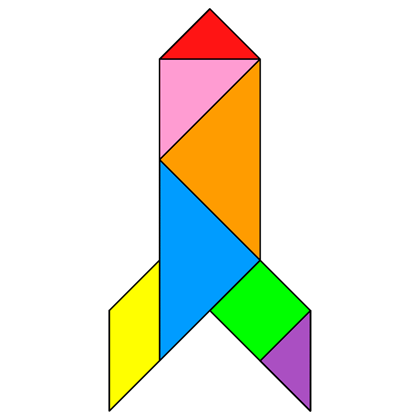
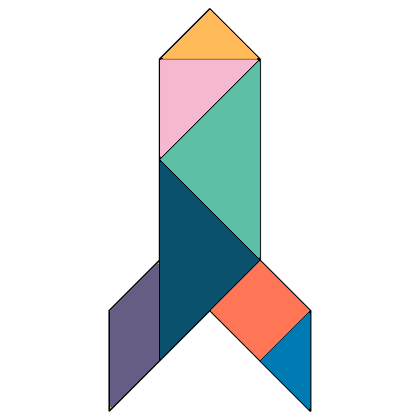
2

Changed region(s): [[0.2476, 0.031, 0.7429, 0.9905]]

diff --git a/src/components/Estudiante.js b/src/components/Estudiante.js
@@ -1,8 +1,12 @@
-import React, { useEffect } from 'react';
+import React, { useEffect , useState } from 'react';
 import Draggable from 'react-draggable';
+import { ListGroup, ListGroupItem } from 'reactstrap';
+import choeteImage from '../img/choete.png';
+import { Button, Modal } from 'react-bootstrap';
 import './Estudiante.css';
 
 const Estudiante = () => {
+  const [showModal, setShowModal] = useState(false);
   useEffect(() => {
     const blocks = document.querySelectorAll('.block');
     let angle = 90;
@@ -38,7 +42,54 @@ const Estudiante = () => {
   return (
     <div className="container">
       <div className="title-container">
+      <div id="lista" style={{ position: 'fixed', bottom: '10px', right: '10px' }}>
+        <ListGroup style={{ maxWidth: '200px' }}>
+          <ListGroupItem>
+            <h6 className="list-group-item-heading">Pasos</h6>
+          </ListGroupItem>
+          <ListGroupItem>
+            <p className="list-group-item-text">Paso 1:</p>
+          </ListGroupItem>
+          <ListGroupItem>
+            <p className="list-group-item-text">Paso 2:</p>
+          </ListGroupItem>
+          <ListGroupItem>
+            <p className="list-group-item-text">Paso 3:</p>
+          </ListGroupItem>
+          <ListGroupItem>
+            <p className="list-group-item-text">Paso 4:</p>
+          </ListGroupItem>
+          <ListGroupItem>
+            <p className="list-group-item-text">Paso 5:</p>
+          </ListGroupItem>
+          <ListGroupItem>
+            <p className="list-group-item-text">Paso 6:</p>
+          </ListGroupItem>
+          <ListGroupItem>
+            <p className="list-group-item-text">Paso 7:</p>
+          </ListGroupItem>
+        </ListGroup>
+      </div>
         <h1>Estudiante</h1>
+      </div>
+      <div id="modal">
+        <Button onClick={() => setShowModal(true)} id="btnModal" variant="light">Terminar</Button>
+        <Modal show={showModal} onHide={() => setShowModal(false)}>
+          <Modal.Header closeButton>
+            <Modal.Title>Mandar Figura</Modal.Title>
+          </Modal.Header>
+          <Modal.Body>
+            <p1>¿La figura que creaste es igual a la figura de referencia?</p1>
+          </Modal.Body>
+          <Modal.Footer>
+            <Button variant="secondary" onClick={() => setShowModal(false)}>Cancelar</Button>
+            <Button variant="primary">No</Button>
+            <Button variant="primary">Si</Button>
+          </Modal.Footer>
+        </Modal>
+      </div>
+      <div id="lvl1">
+        <img src={choeteImage} alt="imagen choete" />
       </div>
       <div>
         <div id="blockTray">
@@ -69,12 +120,12 @@ const Estudiante = () => {
           </Draggable>
           <Draggable>
             <svg id="triangle5" className="block">
-              <rect x="98" y="0" width="149" height="75" fill="green" transform="skewX(-45)" />
+              <rect x="98" y="0" width="149" height="75" fill="#665c84" transform="skewX(-45)" />
             </svg>
           </Draggable>
           <Draggable>
             <svg id="square1" className="block" width="146" height="146">
-              <polygon points="73,0 146,73 73,146 0,73" style={{ fill: 'red' }} />
+              <polygon points="73,0 146,73 73,146 0,73" style={{ fill: '#ff7657' }} />
             </svg>
           </Draggable>
         </div>

diff --git a/src/components/Profesor.js b/src/components/Profesor.js
@@ -1,8 +1,11 @@
-import React, { useEffect } from 'react';
+import React, { useEffect, useState } from 'react';
 import Draggable from 'react-draggable';
+import { Button, Modal } from 'react-bootstrap';
 import './Profesor.css';
 
+
 const Profesor = () => {
+  const [showModal, setShowModal] = useState(false);
   useEffect(() => {
     const blocks = document.querySelectorAll('.block');
     let angle = 90;
@@ -39,6 +42,21 @@ const Profesor = () => {
     <div className="containerP">
       <div className="title-containerP">
         <h1>Profesor</h1>
+        <div id="modal">
+        <Button onClick={() => setShowModal(true)} id="btnModal" variant="light">Terminar</Button>
+        <Modal show={showModal} onHide={() => setShowModal(false)}>
+          <Modal.Header closeButton>
+            <Modal.Title>Terminar Figura</Modal.Title>
+          </Modal.Header>
+          <Modal.Body>
+            <p1>Se enviara esta figura a la vista del estudiante</p1>
+          </Modal.Body>
+          <Modal.Footer>
+            <Button variant="secondary" onClick={() => setShowModal(false)}>Cancelar</Button>
+            <Button variant="primary">Confirmar</Button>
+          </Modal.Footer>
+        </Modal>
+      </div>
       </div>
       <div>
         <div id="blockTrayP">
@@ -69,12 +87,12 @@ const Profesor = () => {
           </Draggable>
           <Draggable>
             <svg id="triangle5P" className="block">
-              <rect x="98" y="0" width="149" height="75" fill="green" transform="skewX(-45)" />
+              <rect x="98" y="0" width="149" height="75" fill="#665c84" transform="skewX(-45)" />
             </svg>
           </Draggable>
           <Draggable>
             <svg id="square1P" className="block" width="146" height="146">
-              <polygon points="73,0 146,73 73,146 0,73" style={{ fill: 'red' }} />
+              <polygon points="73,0 146,73 73,146 0,73" style={{ fill: '#ff7657' }} />
             </svg>
           </Draggable>
         </div>

diff --git a/src/components/Estudiante.css b/src/components/Estudiante.css
@@ -1,3 +1,22 @@
+h6 {
+    font-size: 14px;
+}
+p {
+    font-size: 12px;
+}
+  #lvl1 {
+    margin-top: 100px;
+    width: 450px;
+    opacity: 0.2; 
+    transform: rotate(90deg);
+    position: absolute;
+    left: 100px;
+}
+#btnModal{
+    position: absolute;
+    top: 550px;
+}
+
 .container {
     display: flex;
     justify-content: center;
@@ -24,7 +43,7 @@
     height: 0;
     border-style: solid;
     border-width: 0 76px 76px 76px;
-    border-color: transparent transparent #f1c40f transparent;
+    border-color: transparent transparent #ffba5a transparent;
     position: absolute;
     top: 330px;
     left: 721px;
@@ -36,7 +55,7 @@
     height: 0;
     border-style: solid;
     border-width: 150px 0 150px 150px;
-    border-color: transparent transparent transparent #e74c3c;
+    border-color: transparent transparent transparent #0a516d;
     position: absolute;
     top: 180px;
     left: 650px;
@@ -48,7 +67,7 @@
     height: 0;
     border-style: solid;
     border-width: 150px 150px 0 150px;
-    border-color: #007bff transparent transparent transparent;
+    border-color: #5dc0a6 transparent transparent transparent;
     position: absolute;
     top: 180px;
     left: 650px;
@@ -61,7 +80,7 @@
     height: 0;
     border-style: solid;
     border-width: 0 0 152px 152px;
-    border-color: transparent transparent #d63294 transparent;
+    border-color: transparent transparent #f6b8d1 transparent;
     position: absolute;
     top: 330px;
     left: 798px;
@@ -73,7 +92,7 @@
     height: 0;
     border-style: solid;
     border-width: 76px 76px 76px 0;
-    border-color: transparent #69dcf0 transparent transparent;
+    border-color: transparent #007AB2 transparent transparent;
     position: absolute;
     top: 180px;
     left: 875px;

diff --git a/src/components/Profesor.css b/src/components/Profesor.css
@@ -24,7 +24,7 @@
     height: 0;
     border-style: solid;
     border-width: 0 76px 76px 76px;
-    border-color: transparent transparent #f1c40f transparent;
+    border-color: transparent transparent #ffba5a transparent;
     position: absolute;
     top: 330px;
     left: 581px;
@@ -36,7 +36,7 @@
     height: 0;
     border-style: solid;
     border-width: 150px 0 150px 150px;
-    border-color: transparent transparent transparent #e74c3c;
+    border-color: transparent transparent transparent #0a516d;
     position: absolute;
     top: 180px;
     left: 510px;
@@ -48,7 +48,7 @@
     height: 0;
     border-style: solid;
     border-width: 150px 150px 0 150px;
-    border-color: #007bff transparent transparent transparent;
+    border-color: #5dc0a6 transparent transparent transparent;
     position: absolute;
     top: 180px;
     left: 510px;
@@ -61,7 +61,7 @@
     height: 0;
     border-style: solid;
     border-width: 0 0 152px 152px;
-    border-color: transparent transparent #d63294 transparent;
+    border-color: transparent transparent #f6b8d1 transparent;
     position: absolute;
     top: 330px;
     left: 658px;
@@ -73,7 +73,7 @@
     height: 0;
     border-style: solid;
     border-width: 76px 76px 76px 0;
-    border-color: transparent #69dcf0 transparent transparent;
+    border-color: transparent  #007AB2  transparent transparent;
     position: absolute;
     top: 180px;
     left: 735px;

diff --git a/src/App.js b/src/App.js
@@ -4,6 +4,7 @@ import './App.css';
 import Home from './components/Home';
 import Estudiante from './components/Estudiante';
 import Profesor from './components/Profesor';
+import 'bootstrap/dist/css/bootstrap.min.css';
 
 
 function App() {
